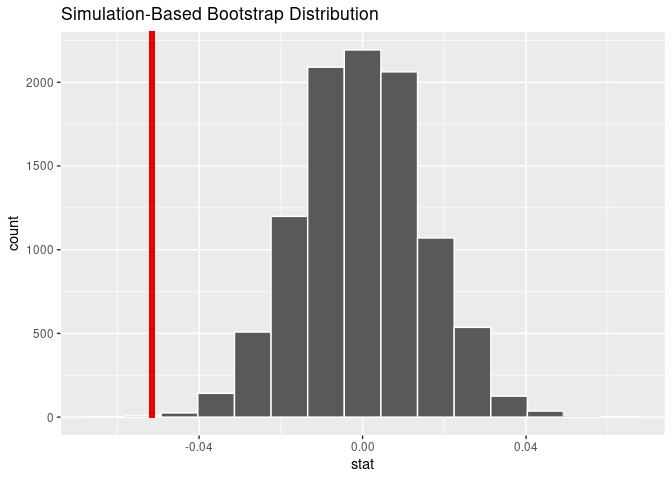
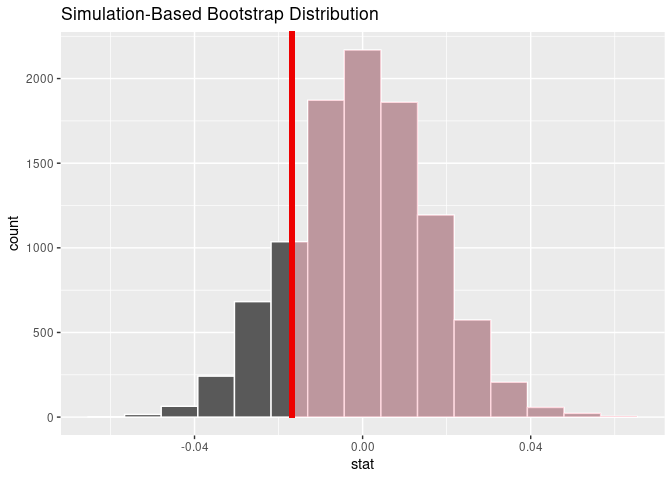
one-sided tails

diff --git a/README.md b/README.md
@@ -32,10 +32,10 @@ library(comvlong)
 ```
 
 The following table displays summary statistics for the citation data in
-the `boston_pd_1120` data frame.
+the `bpd_offenses_20` data frame.
 
 ``` r
-boston_pd_1120 |>
+bpd_offenses_20 |>
   group_by(issuing_agency) |>
   summarize(
     num_citations = n(),
@@ -49,29 +49,29 @@ boston_pd_1120 |>
 
 | issuing_agency              | num_citations | begin_date | end_date   | num_officers | num_offenses |
 |:----------------------------|--------------:|:-----------|:-----------|-------------:|-------------:|
-| Boston Police Area A        |         20845 | 2011-01-01 | 2020-11-01 |          902 |          179 |
-| Boston Police Area B        |         34368 | 2011-01-01 | 2020-12-24 |         1163 |          183 |
-| Boston Police Area C        |         18666 | 2011-01-01 | 2020-12-28 |          922 |          173 |
-| Boston Police Area D        |         15615 | 2011-01-01 | 2020-11-27 |          798 |          141 |
-| Boston Police Area E        |         10133 | 2011-01-02 | 2020-03-09 |          522 |          127 |
-| Boston Police Area F        |          7728 | 2011-01-02 | 2020-12-07 |          556 |          139 |
-| Boston Police Area G        |          8663 | 2011-01-01 | 2020-08-16 |          434 |          133 |
-| Boston Police Area H        |         33496 | 2011-01-01 | 2020-12-18 |          936 |          166 |
-| Boston Police Area J        |         12390 | 2011-01-02 | 2020-10-19 |          545 |          126 |
-| Boston Police Area K        |         12715 | 2011-01-01 | 2020-10-10 |          438 |          126 |
-| Boston Police Area L        |          9067 | 2011-01-01 | 2020-09-09 |          522 |          137 |
-| Boston Police District A-1  |          4613 | 2011-09-10 | 2020-12-30 |          512 |          137 |
-| Boston Police District A-7  |          3373 | 2012-01-01 | 2020-12-10 |          293 |          108 |
-| Boston Police District B-2  |          9201 | 2012-01-07 | 2021-01-01 |          834 |          151 |
-| Boston Police District B-3  |          6860 | 2011-04-03 | 2021-01-01 |          672 |          140 |
-| Boston Police District C-11 |          9610 | 2011-06-01 | 2020-12-31 |          632 |          142 |
-| Boston Police District C-6  |          6274 | 2011-08-21 | 2020-12-31 |          585 |          114 |
-| Boston Police District D-14 |          2229 | 2011-01-04 | 2020-12-30 |          322 |          103 |
-| Boston Police District D-4  |          6197 | 2011-09-16 | 2021-01-01 |          798 |          138 |
-| Boston Police District E-13 |          3477 | 2013-05-23 | 2020-12-31 |          331 |           96 |
-| Boston Police District E-18 |          7011 | 2011-05-08 | 2021-01-01 |          540 |          120 |
-| Boston Police District E-5  |          7572 | 2012-04-12 | 2021-01-01 |          532 |           96 |
-| Boston Police Special OPS   |         78038 | 2011-01-01 | 2021-01-01 |         2067 |          262 |
+| Boston Police Area A        |            52 | 2020-01-02 | 2020-11-01 |            1 |           22 |
+| Boston Police Area B        |           231 | 2020-01-01 | 2020-12-24 |            1 |           34 |
+| Boston Police Area C        |           152 | 2020-01-01 | 2020-12-28 |            1 |           27 |
+| Boston Police Area D        |            58 | 2020-01-01 | 2020-11-27 |            1 |           22 |
+| Boston Police Area E        |             1 | 2020-03-09 | 2020-03-09 |            1 |            1 |
+| Boston Police Area F        |            38 | 2020-01-03 | 2020-12-07 |            1 |           15 |
+| Boston Police Area G        |             3 | 2020-07-02 | 2020-08-16 |            1 |            3 |
+| Boston Police Area H        |            69 | 2020-01-01 | 2020-12-18 |            1 |           20 |
+| Boston Police Area J        |            31 | 2020-01-04 | 2020-10-19 |            1 |           16 |
+| Boston Police Area K        |            25 | 2020-01-01 | 2020-10-10 |            1 |           15 |
+| Boston Police Area L        |             8 | 2020-08-07 | 2020-09-09 |            1 |            4 |
+| Boston Police District A-1  |          1267 | 2020-01-01 | 2020-12-30 |          280 |           80 |
+| Boston Police District A-7  |          1942 | 2020-01-01 | 2020-12-10 |          198 |           75 |
+| Boston Police District B-2  |          5625 | 2020-01-01 | 2020-12-31 |          572 |          103 |
+| Boston Police District B-3  |          4237 | 2020-01-01 | 2020-12-31 |          452 |          110 |
+| Boston Police District C-11 |          4651 | 2020-01-01 | 2020-12-31 |          407 |           91 |
+| Boston Police District C-6  |          4446 | 2020-01-01 | 2020-12-31 |          433 |           85 |
+| Boston Police District D-14 |          1128 | 2020-01-03 | 2020-12-30 |          190 |           55 |
+| Boston Police District D-4  |          3848 | 2020-01-01 | 2020-12-31 |          554 |          100 |
+| Boston Police District E-13 |          2293 | 2020-01-01 | 2020-12-31 |          236 |           76 |
+| Boston Police District E-18 |          5362 | 2020-01-01 | 2020-12-31 |          395 |           99 |
+| Boston Police District E-5  |          5727 | 2020-01-01 | 2020-12-31 |          395 |           77 |
+| Boston Police Special OPS   |          1799 | 2020-01-01 | 2020-12-27 |          256 |           92 |
 
 ## Weighted disparity
 
@@ -83,12 +83,12 @@ sims <- simulate_officer_citations(
 )
 y_hat <- observe_officer()
 y_hat
-#> [1] -0.05153606
+#> [1] -0.01679358
 p_value_officer(sims, y_hat)
 #> # A tibble: 1 × 1
 #>   p_value
 #>     <dbl>
-#> 1  0.0012
+#> 1   0.841
 visualize_weighted_disparity(sims, y_hat)
 ```
 
